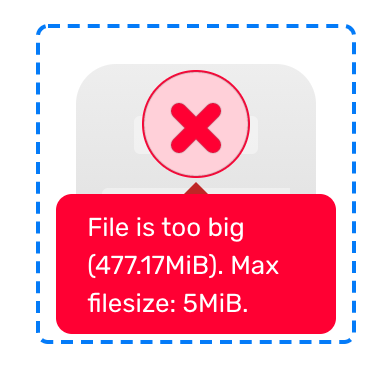
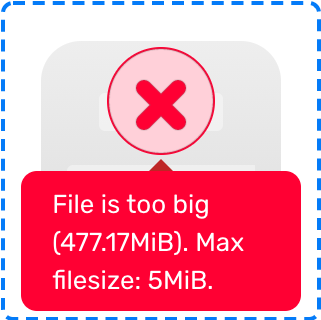
Updated images

Changed region(s): [[0.0, 0.0, 1.0, 1.0], [0.0, 0.4375, 0.0312, 0.9062]]

diff --git a/_layouts/home.html b/_layouts/home.html
@@ -18,13 +18,13 @@
 
     <div class="flex flex-wrap">
       <div class="w-5/6 sm:w-1/2 p-6">
-        <h3 class="text-3xl text-gray-800 font-bold leading-none mb-3">Beautiful UI</h3>
-        <p class="text-gray-600 mb-8">Building a dropzone UI is time consuming. The Simple File Upload widget automatically creates an inline dropzone with built in error handling. File too big? The user is immediately notified and the dropped image is cleared.<br /><br />
+        <h3 class="text-3xl text-gray-800 font-bold leading-none mb-3">Streamlined UI</h3>
+        <p class="text-gray-600 mb-8">Building a file drop user interface is hard. The Simple File Upload widget automatically creates a straightforward UI that by default will blend with your form. File too big? The user is immediately notified and the dropped image is cleared.<br /><br />
 
       </div>
-      <div class="w-full sm:w-1/2 p-6 flex flex-row">
-        <image class="w-1/2" src = "assets/success_upload.png"/>
-        <image class="w-1/2" src = "assets/fail_upload.png"/>
+      <div class="w-full sm:w-1/2 p-6 flex flex-row space-between">
+        <image class="w-1/2 p-2" src = "assets/success.png"/>
+        <image class="w-1/2 p-2" src = "assets/fail.png"/>
       </div>
     </div>
 
